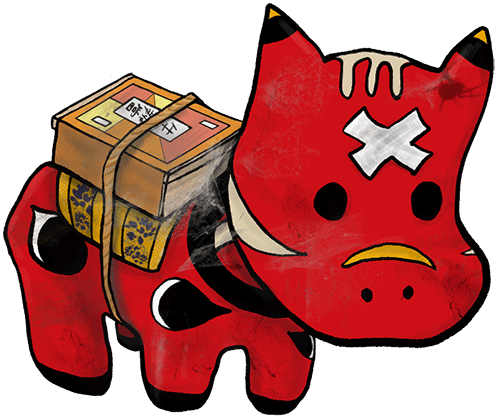
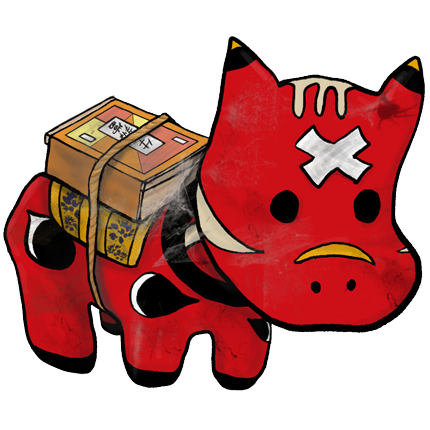
change Akabeko and Ittan-momen

diff --git a/src/app/maps/work-shop/work-shop.component.html b/src/app/maps/work-shop/work-shop.component.html
@@ -1,13 +1,13 @@
 <div id="bg-work-shop" class="background">
-  <!-- 部屋移動 -->
+  <!-- Move Room -->
   <div class="move-vec move-right" (click)="onMove('livingRoom')">
     <img src="../../../assets/img/move_right.png" alt="Living Room">
     <p>Living Room</p>
   </div>
 
-  <!-- キャラクター -->
+  <!-- Characters -->
   <div id="ittan-momen" class="characters" (click)="openSerifs('WorkShop', 'Ittan-momen')">
-    <img src="../../../assets/img/Ittan-momen_neutral.png" alt="Ittan-momen">
+    <img src="../../../assets/img/Ittan-momen_map.png" alt="Ittan-momen">
   </div>
 
 </div>

diff --git a/src/app/shared/const.ts b/src/app/shared/const.ts
@@ -317,7 +317,7 @@ export const CHARACTER_DATA = [
   {
     'id': 3,
     'name': 'Ittan momen',
-    'main_image_file': 'Ittan-momen_neutral',
+    'main_image_file': 'Ittan-momen_map',
     'select_image_file': IMG_PATH_CHARACTER_LIST + 'Ittan-momen_neutral' + EXT_CHARACTER,
     'explanation': 'He come from Kagoshima.\nHe can choke you to death if he was angry.'
   },

diff --git a/src/app/maps/work-shop/work-shop.component.css b/src/app/maps/work-shop/work-shop.component.css
@@ -26,13 +26,13 @@
 #ittan-momen {
   width: auto;
   height: 45vh;
-  transform: translate(22vh, 8vh);
+  transform: translate(-5vh, 5vh);
 }
 
 @media screen and (orientation: portrait)  {
   #ittan-momen {
-    width: 30vw;
+    width: 50vw;
     height: auto;
-    transform: translate(12vw, 20vw);
+    transform: translate(-5vw, 10vw);
   }
 }
